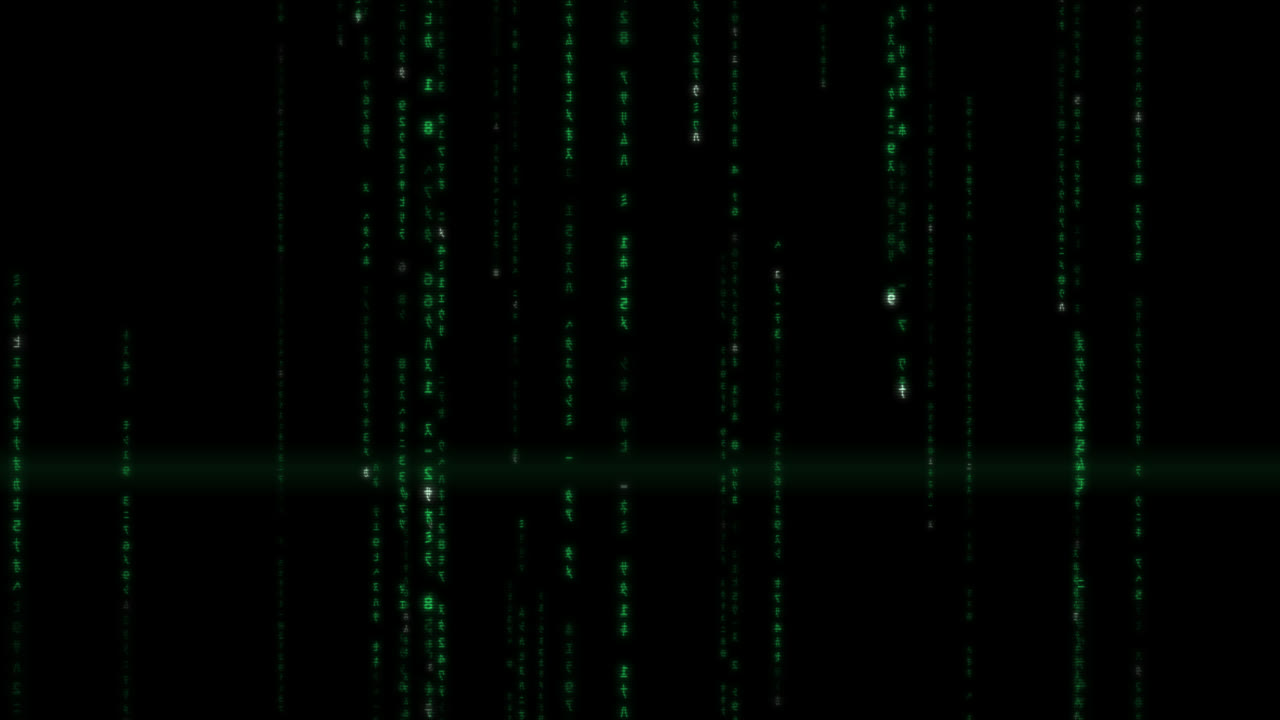
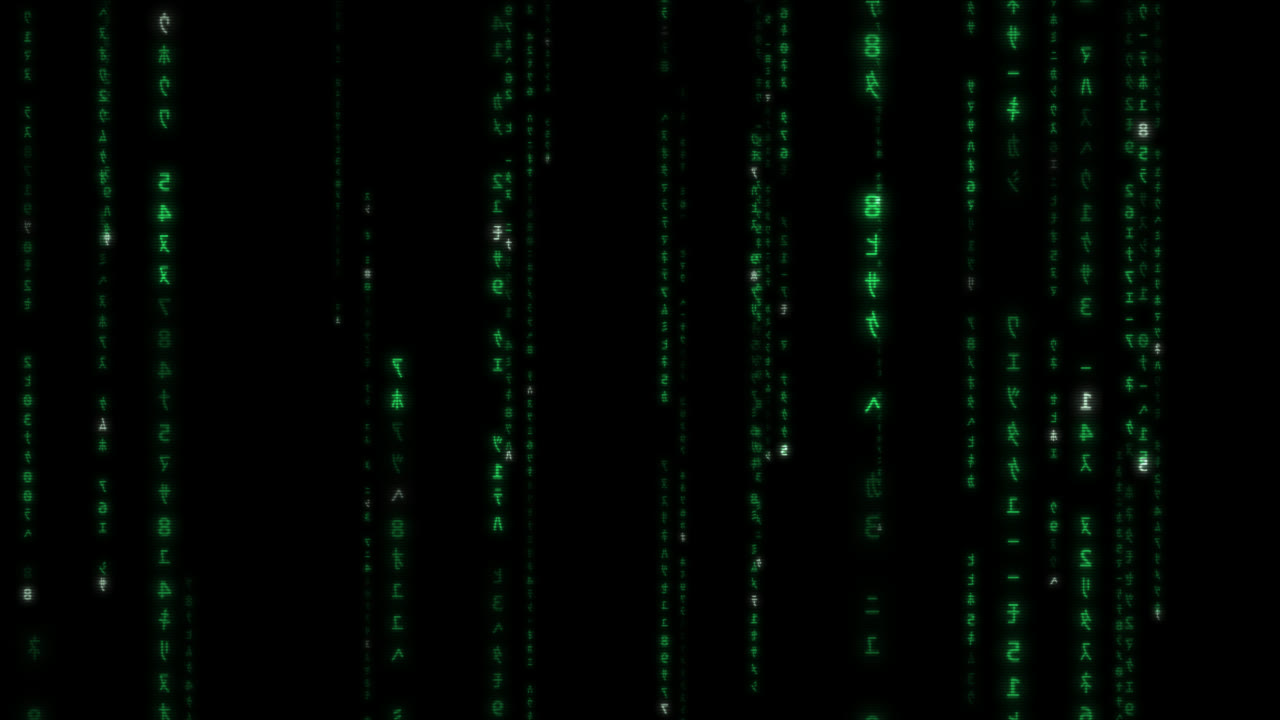
README pictures retaken with 2.1.0, after the waits the project's rule asks for

diff --git a/scripts/shots.py b/scripts/shots.py
@@ -1,4 +1,5 @@
 #retakes the readme's pictures (docs/screensaver) from `npx vite --mode screensaver --port 5175`
+#waits follow the project's rule: synthwave and matrix a minute, terafox 22 seconds (a lot of hexagons are on screen)
 #in playwright's firefox with webgl2 switched on; py -3 -I scripts/shots.py from the repo's root
 #the settings stand in for the program's bridge (__TAURI__) so they show its preview button
 import json, os, subprocess
@@ -30,10 +31,10 @@ neon = json.dumps({'version': 2, 'neon': {'resolution': 100}})
 os.makedirs(OUT, exist_ok=True)
 with sync_playwright() as p:
     b = p.firefox.launch(firefox_user_prefs={'webgl.force-enabled': True, 'webgl.enable-webgl2': True})
-    take(b, 'synthwave', 'index.html', {'theme': 'synthwave', 'backgrounds': neon})
+    take(b, 'synthwave', 'index.html', {'theme': 'synthwave', 'backgrounds': neon}, wait=60000)
     take(b, 'vaporwave', 'index.html', {'theme': 'vaporwave'})
-    take(b, 'matrix', 'index.html', {'theme': 'matrix'})
-    take(b, 'terafox', 'index.html', {'theme': 'terafox'}, wait=25000)
+    take(b, 'matrix', 'index.html', {'theme': 'matrix'}, wait=60000)
+    take(b, 'terafox', 'index.html', {'theme': 'terafox'}, wait=22000)
     take(b, 'settings', 'settings.html', {'theme': 'vaporwave', 'screensaver': json.dumps({'random': True, 'minutes': 5})},
          size=(900, 1000), init='window.__TAURI__ = { core: { invoke: () => {} } }')
     b.close()
